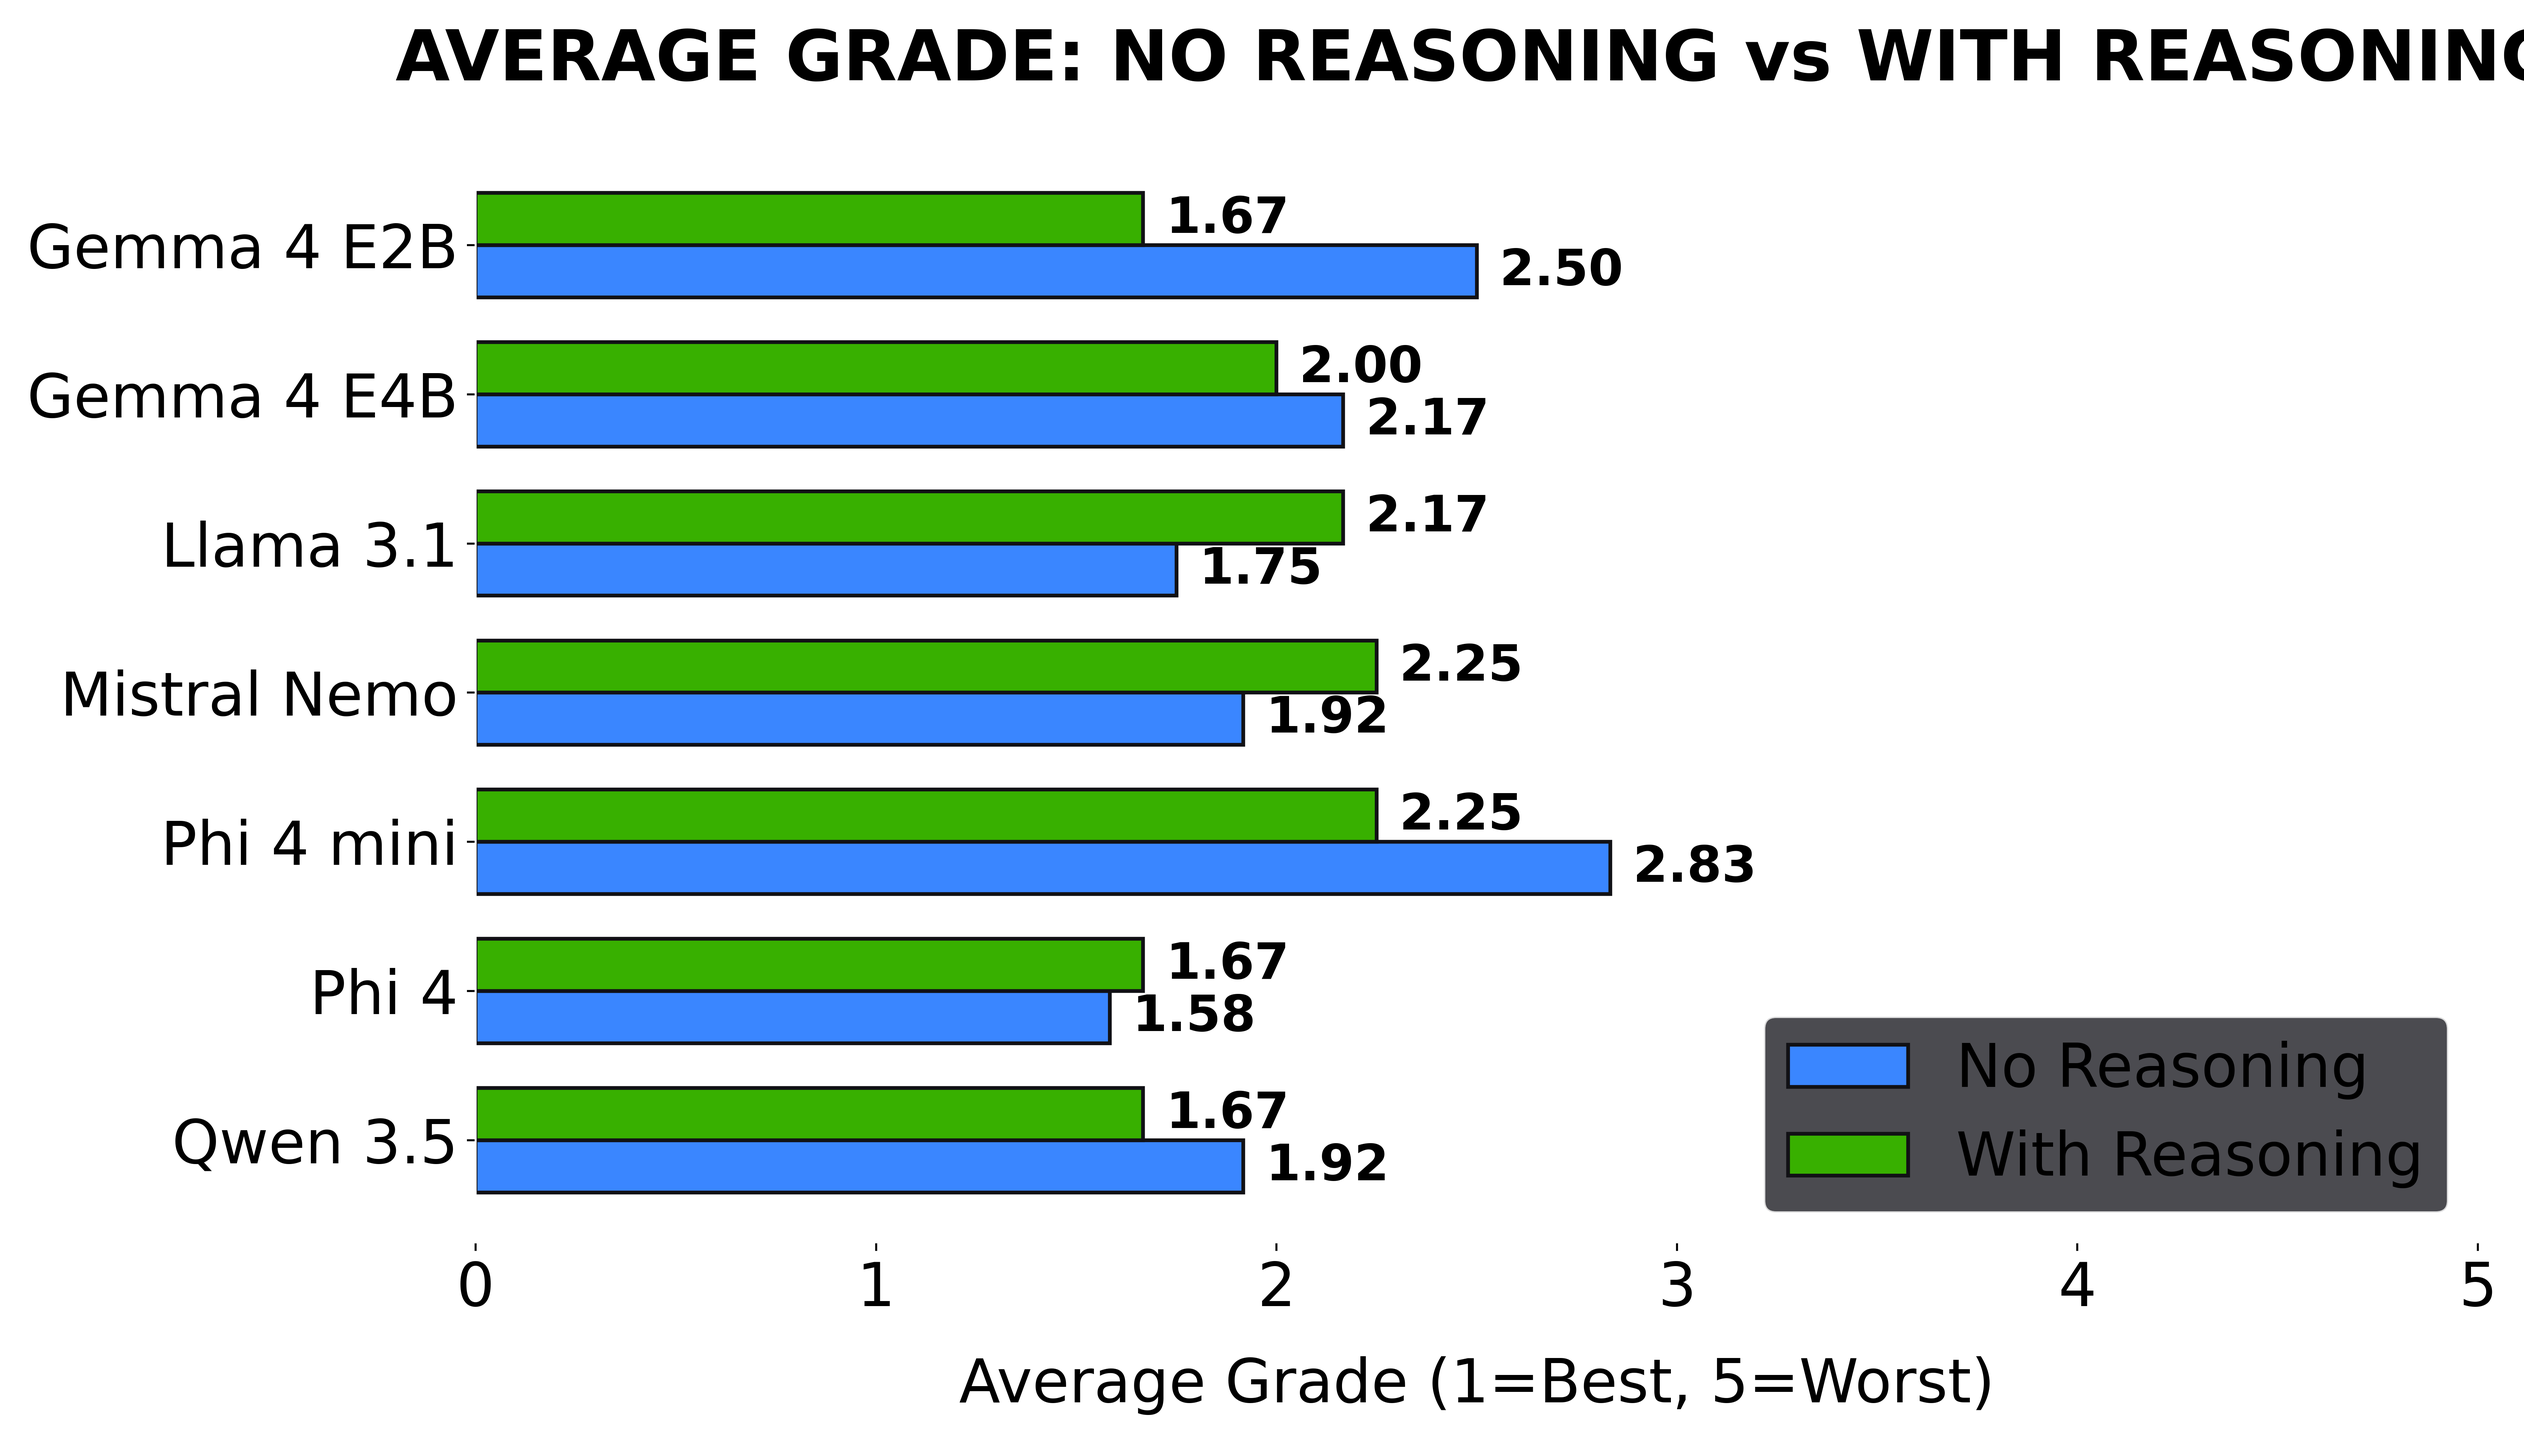
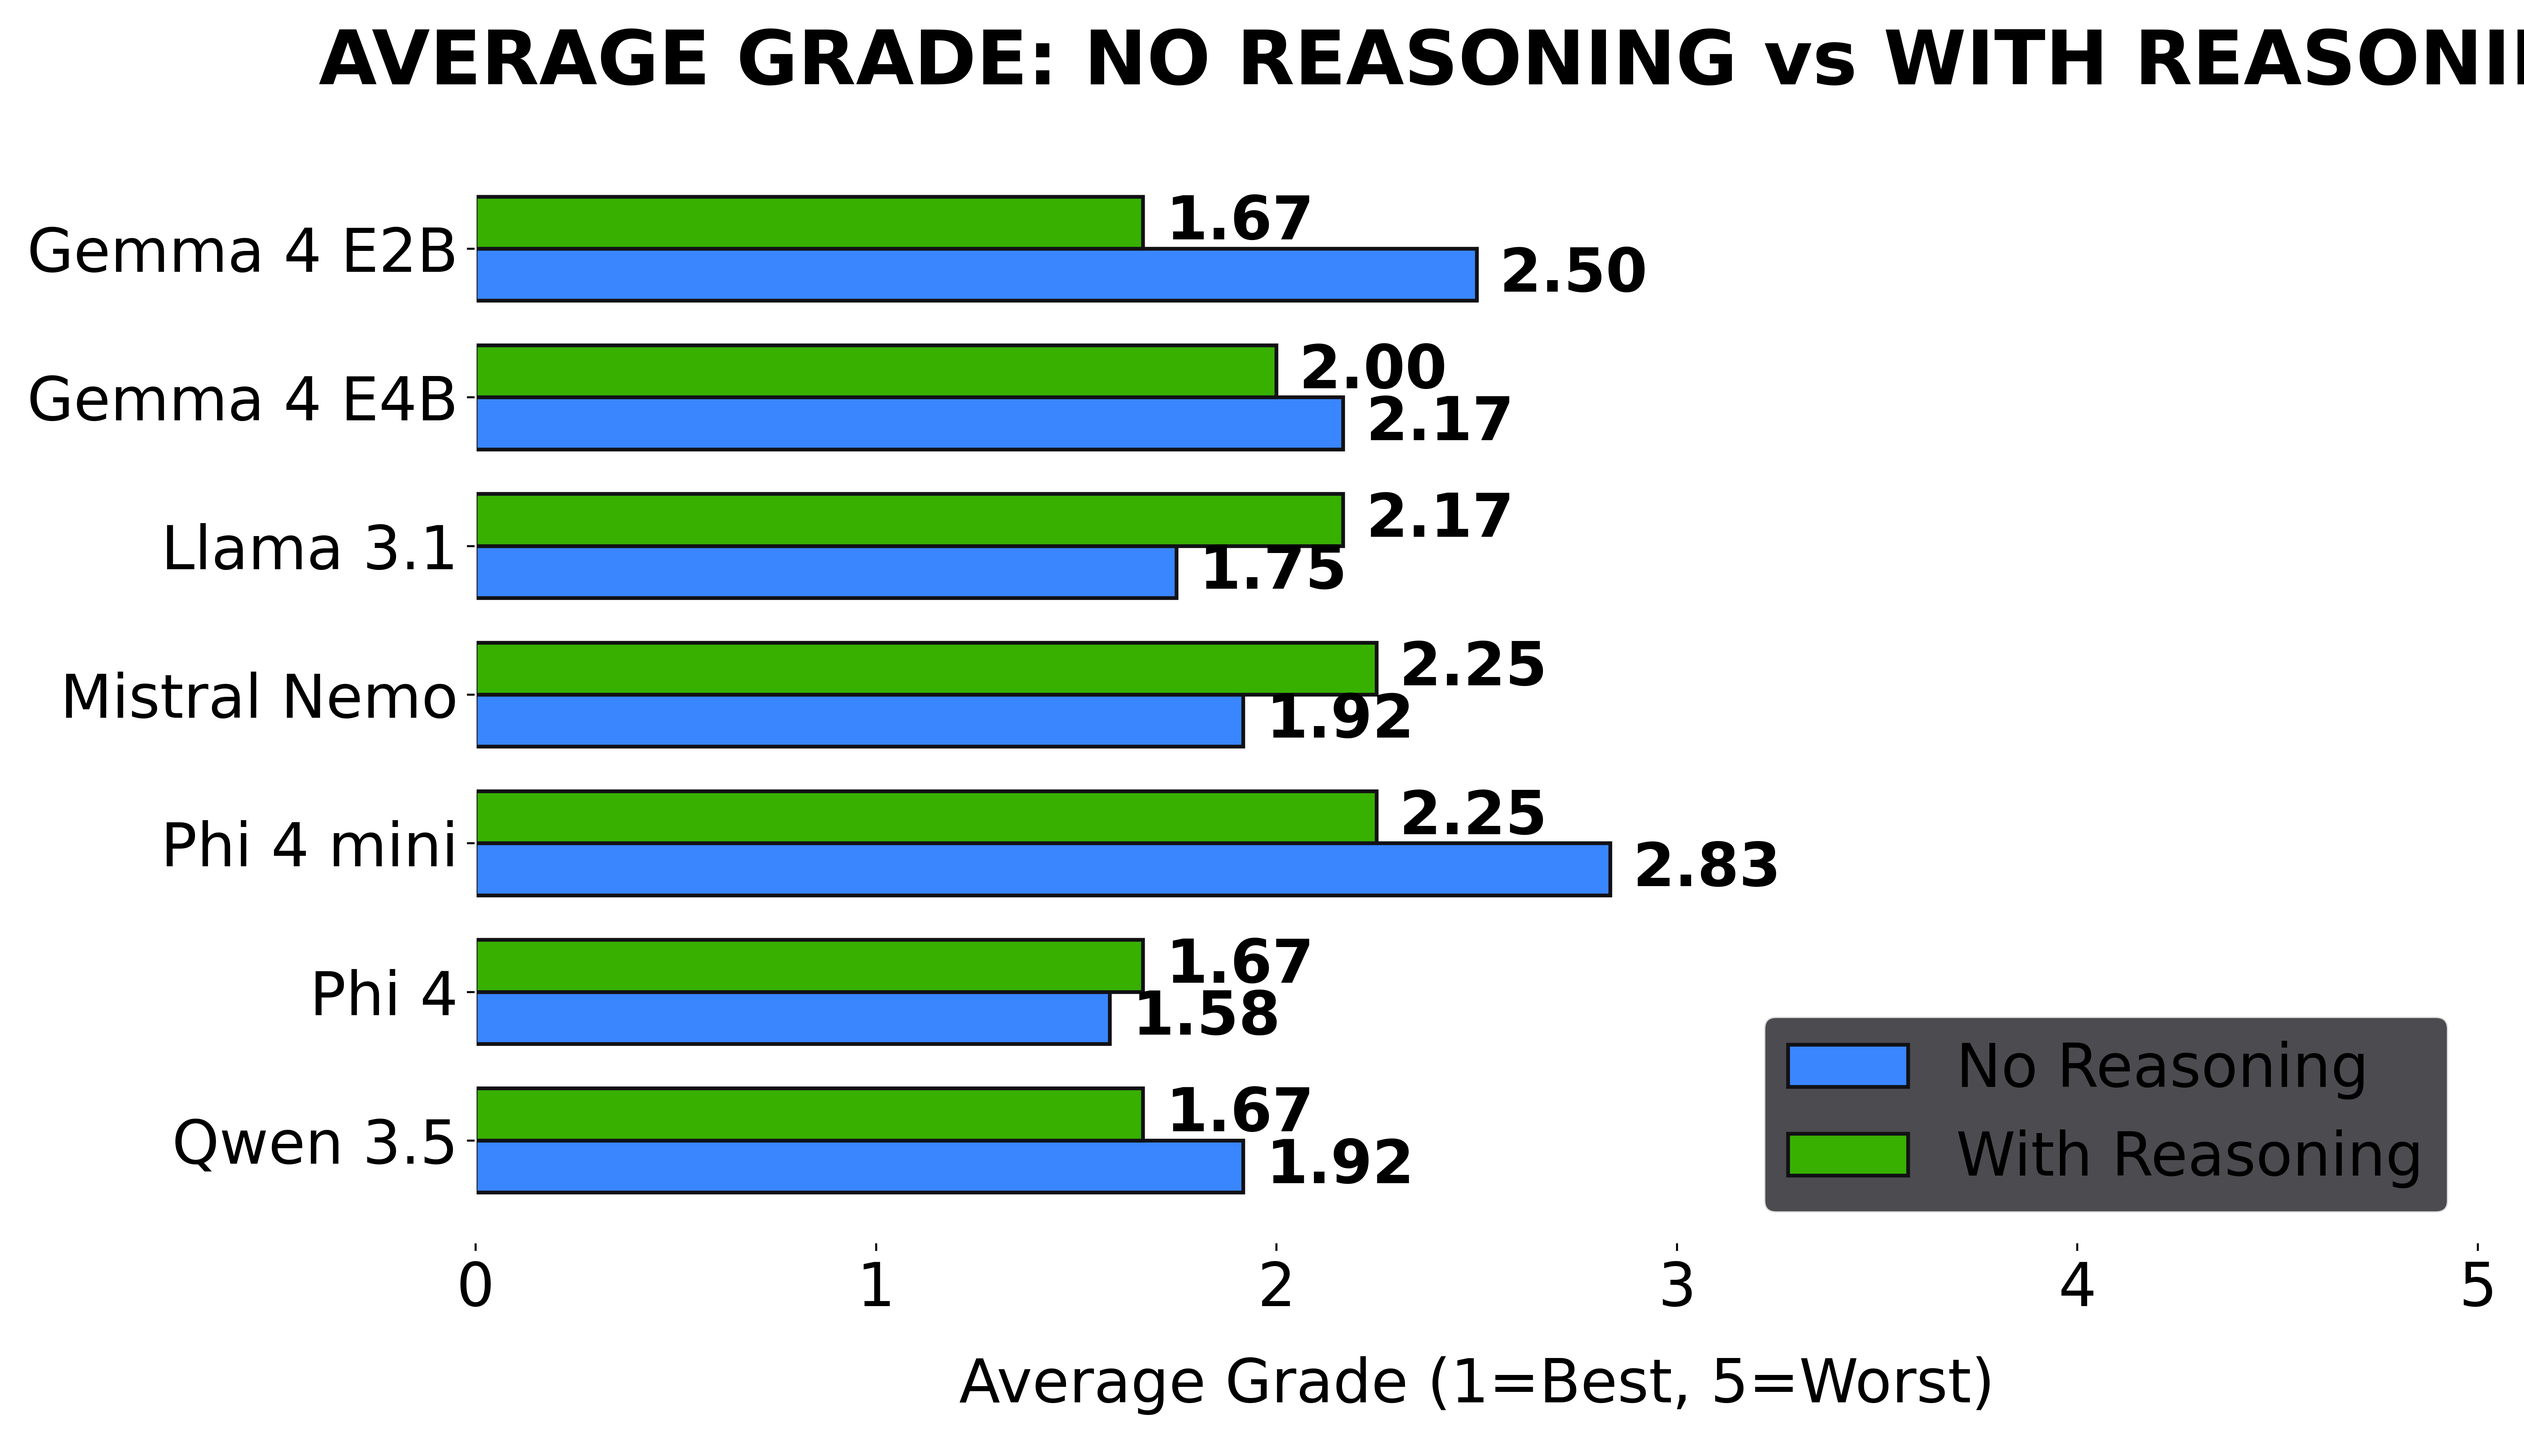
sync

diff --git a/viz/testing.py b/viz/testing.py
@@ -27,10 +27,10 @@ MARTIN_ATTACK_ORDER = [
     "Encoding (Malicious HEX)"
 ]
 
-TITLE_FONT_SIZE = 28
+TITLE_FONT_SIZE = 30
 AXIS_TICK_FONT_SIZE = 24
-MATRIX_CELL_FONT_SIZE = 20
-BAR_DATA_LABEL_FONT_SIZE = 20
+MATRIX_CELL_FONT_SIZE = 24
+BAR_DATA_LABEL_FONT_SIZE = 24
 AXIS_LABEL_FONT_SIZE = 24
 LEGEND_FONT_SIZE = 24
 DPI = 500
@@ -148,7 +148,7 @@ def draw_heatmap(data_matrix, title, save_filename, mode="continuous",
 
         ax.set_aspect('auto')
 
-        ax.set_title(title, color=TEXT_WHITE, fontsize=TITLE_FONT_SIZE, pad=35, weight='bold')
+        # ax.set_title(title, loc='left', color=TEXT_WHITE, fontsize=TITLE_FONT_SIZE, pad=4, weight='bold')
         ax.set_xlabel("")
         ax.set_ylabel("")
 
@@ -234,7 +234,7 @@ def draw_heatmap(data_matrix, title, save_filename, mode="continuous",
                 except ValueError:
                     text_el.set_color('white')
 
-    ax.set_title(title, color=TEXT_WHITE, fontsize=TITLE_FONT_SIZE, pad=35, weight='bold')
+    ax.set_title(title, color=TEXT_WHITE, fontsize=TITLE_FONT_SIZE, pad=-20, weight='bold')
     ax.set_xlabel("")
     ax.set_ylabel("")
     ax.tick_params(colors=TEXT_WHITE, labelsize=AXIS_TICK_FONT_SIZE, which='both', length=0)
@@ -245,8 +245,8 @@ def draw_heatmap(data_matrix, title, save_filename, mode="continuous",
     for tick in ax.get_yticklabels():
         tick.set_rotation(0)
 
-    plt.subplots_adjust(left=0.15, bottom=0.2)
-    plt.tight_layout()
+    plt.subplots_adjust(left=0.16, bottom=0.16)
+    # plt.tight_layout()
     # Delete tight_layout() entirely and hardcode the box anchors!
     # plt.subplots_adjust(left=0.1, right=0.9, bottom=0.15, top=0.85)
 
